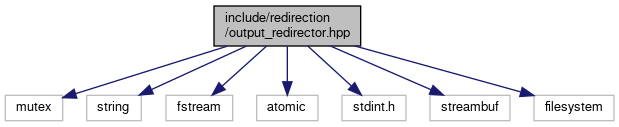
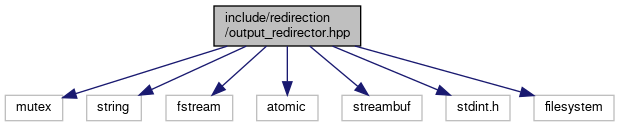
Update docs

Changed region(s): [[0.4911, 0.3543, 0.8288, 0.9685]]

diff --git a/docs/output__redirector_8cpp.html b/docs/output__redirector_8cpp.html
@@ -76,29 +76,30 @@ $(function() {
 <div class="textblock"><code>#include &quot;<a class="el" href="output__redirector_8hpp_source.html">../../include/redirection/output_redirector.hpp</a>&quot;</code><br />
 <code>#include &quot;<a class="el" href="strings_8hpp_source.html">../../include/utility/strings.hpp</a>&quot;</code><br />
 <code>#include &lt;iostream&gt;</code><br />
+<code>#include &lt;sstream&gt;</code><br />
 <code>#include &lt;utility&gt;</code><br />
 <code>#include &lt;stdexcept&gt;</code><br />
-<code>#include &lt;streambuf&gt;</code><br />
 </div><div class="textblock"><div class="dynheader">
 Include dependency graph for output_redirector.cpp:</div>
 <div class="dyncontent">
 <div class="center"><img src="output__redirector_8cpp__incl.png" border="0" usemap="#asrc_2redirection_2output__redirector_8cpp" alt=""/></div>
 <map name="asrc_2redirection_2output__redirector_8cpp" id="asrc_2redirection_2output__redirector_8cpp">
-<area shape="rect" title=" " alt="" coords="538,5,682,47"/>
-<area shape="rect" href="output__redirector_8hpp.html" title=" " alt="" coords="390,95,537,136"/>
-<area shape="rect" title=" " alt="" coords="710,184,790,211"/>
-<area shape="rect" href="strings_8hpp.html" title=" " alt="" coords="110,95,227,136"/>
-<area shape="rect" title=" " alt="" coords="611,102,683,129"/>
-<area shape="rect" title=" " alt="" coords="708,102,760,129"/>
-<area shape="rect" title=" " alt="" coords="784,102,863,129"/>
-<area shape="rect" title=" " alt="" coords="260,184,317,211"/>
-<area shape="rect" title=" " alt="" coords="181,184,236,211"/>
-<area shape="rect" title=" " alt="" coords="342,184,409,211"/>
-<area shape="rect" title=" " alt="" coords="433,184,494,211"/>
-<area shape="rect" title=" " alt="" coords="518,184,582,211"/>
-<area shape="rect" title=" " alt="" coords="606,184,686,211"/>
-<area shape="rect" title=" " alt="" coords="5,184,73,211"/>
-<area shape="rect" title=" " alt="" coords="97,184,157,211"/>
+<area shape="rect" title=" " alt="" coords="723,5,867,47"/>
+<area shape="rect" href="output__redirector_8hpp.html" title=" " alt="" coords="278,95,425,136"/>
+<area shape="rect" href="strings_8hpp.html" title=" " alt="" coords="571,95,689,136"/>
+<area shape="rect" title=" " alt="" coords="713,102,785,129"/>
+<area shape="rect" title=" " alt="" coords="809,102,878,129"/>
+<area shape="rect" title=" " alt="" coords="903,102,955,129"/>
+<area shape="rect" title=" " alt="" coords="979,102,1057,129"/>
+<area shape="rect" title=" " alt="" coords="5,184,63,211"/>
+<area shape="rect" title=" " alt="" coords="560,184,615,211"/>
+<area shape="rect" title=" " alt="" coords="87,184,154,211"/>
+<area shape="rect" title=" " alt="" coords="178,184,239,211"/>
+<area shape="rect" title=" " alt="" coords="263,184,343,211"/>
+<area shape="rect" title=" " alt="" coords="367,184,431,211"/>
+<area shape="rect" title=" " alt="" coords="455,184,535,211"/>
+<area shape="rect" title=" " alt="" coords="639,184,707,211"/>
+<area shape="rect" title=" " alt="" coords="731,184,791,211"/>
 </map>
 </div>
 </div><table class="memberdecls">

diff --git a/docs/output__redirector_8hpp_source.html b/docs/output__redirector_8hpp_source.html
@@ -90,8 +90,8 @@ $(function() {
 <div class="line"><a name="l00024"></a><span class="lineno">   24</span>&#160;<span class="preprocessor">#include &lt;string&gt;</span></div>
 <div class="line"><a name="l00025"></a><span class="lineno">   25</span>&#160;<span class="preprocessor">#include &lt;fstream&gt;</span></div>
 <div class="line"><a name="l00026"></a><span class="lineno">   26</span>&#160;<span class="preprocessor">#include &lt;atomic&gt;</span></div>
-<div class="line"><a name="l00027"></a><span class="lineno">   27</span>&#160;<span class="preprocessor">#include &lt;stdint.h&gt;</span></div>
-<div class="line"><a name="l00028"></a><span class="lineno">   28</span>&#160;<span class="preprocessor">#include &lt;streambuf&gt;</span></div>
+<div class="line"><a name="l00027"></a><span class="lineno">   27</span>&#160;<span class="preprocessor">#include &lt;streambuf&gt;</span></div>
+<div class="line"><a name="l00028"></a><span class="lineno">   28</span>&#160;<span class="preprocessor">#include &lt;stdint.h&gt;</span></div>
 <div class="line"><a name="l00029"></a><span class="lineno">   29</span>&#160; </div>
 <div class="line"><a name="l00030"></a><span class="lineno">   30</span>&#160;<span class="comment">// Procedure for experimental header</span></div>
 <div class="line"><a name="l00031"></a><span class="lineno">   31</span>&#160;<span class="preprocessor">#ifndef __APPLE__</span></div>

diff --git a/docs/output__redirector_8hpp.html b/docs/output__redirector_8hpp.html
@@ -79,8 +79,8 @@ $(function() {
 <code>#include &lt;string&gt;</code><br />
 <code>#include &lt;fstream&gt;</code><br />
 <code>#include &lt;atomic&gt;</code><br />
-<code>#include &lt;stdint.h&gt;</code><br />
 <code>#include &lt;streambuf&gt;</code><br />
+<code>#include &lt;stdint.h&gt;</code><br />
 <code>#include &lt;filesystem&gt;</code><br />
 </div><div class="textblock"><div class="dynheader">
 Include dependency graph for output_redirector.hpp:</div>
@@ -92,8 +92,8 @@ Include dependency graph for output_redirector.hpp:</div>
 <area shape="rect" title=" " alt="" coords="87,95,141,121"/>
 <area shape="rect" title=" " alt="" coords="166,95,233,121"/>
 <area shape="rect" title=" " alt="" coords="257,95,318,121"/>
-<area shape="rect" title=" " alt="" coords="342,95,406,121"/>
-<area shape="rect" title=" " alt="" coords="430,95,510,121"/>
+<area shape="rect" title=" " alt="" coords="342,95,422,121"/>
+<area shape="rect" title=" " alt="" coords="446,95,510,121"/>
 <area shape="rect" title=" " alt="" coords="534,95,614,121"/>
 </map>
 </div>
